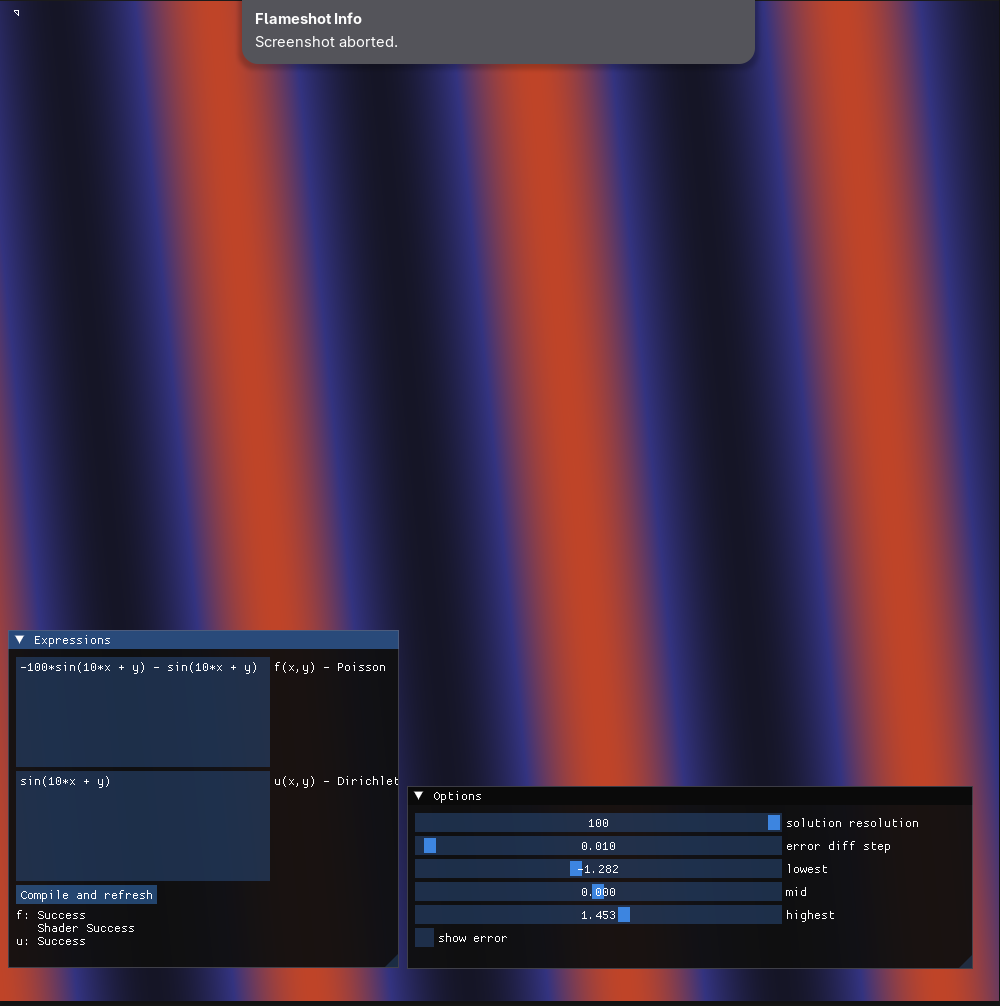
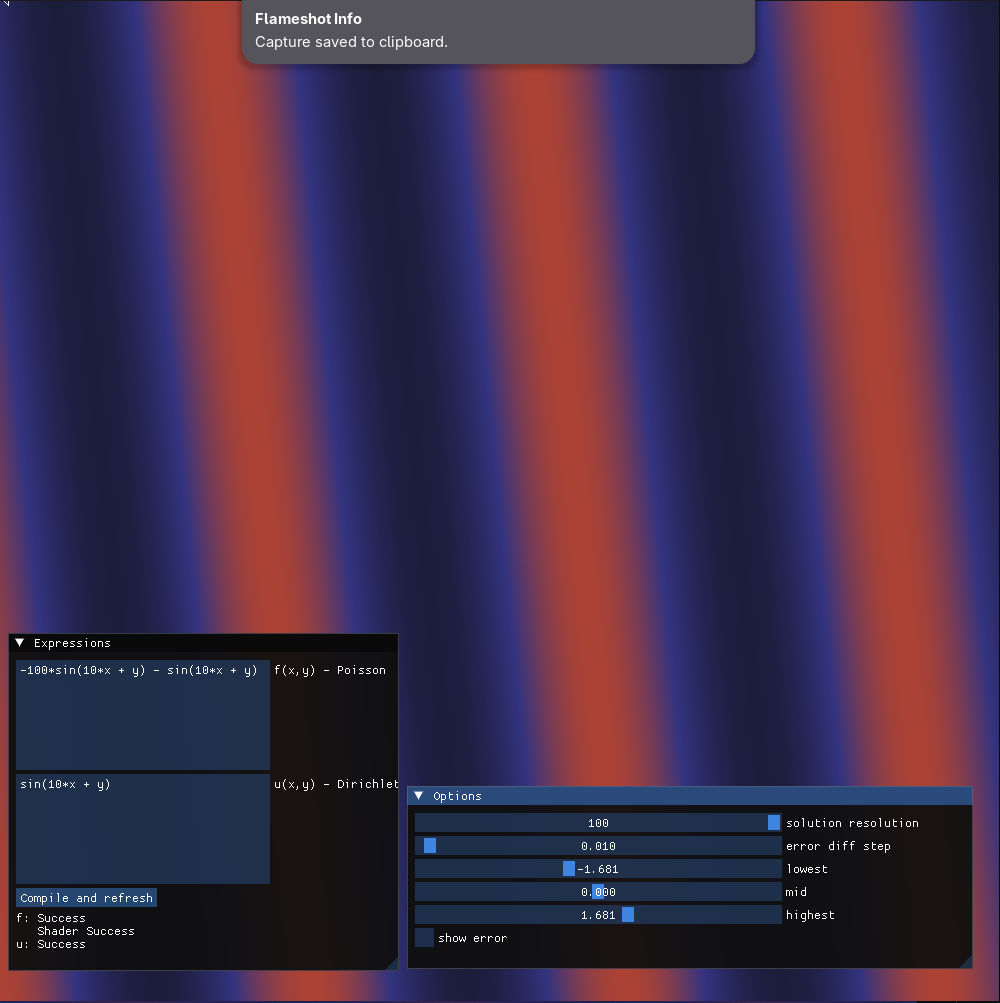
Fix readme

diff --git a/README.md b/README.md
@@ -1,8 +1,10 @@
 ### Poisson-Laplace equation solver using the FEM
 
-The solver uses first-order triangular elements
-![Example 1](/images/sin_img.png)
+The solver uses first-order triangular elements.
 
-It also can visualize the laplacian deviation
-![Example 2](/images/sin_img_error_low.png)
-![Example 3](/images/sin_img_error_high.png)
+<img src="/images/sin_img.png" alt="Example 1" width="500" height="500">
+
+It can also visualize the Laplacian deviation.
+
+<img src="/images/sin_img_error_low.png" alt="Example 2" width="500" height="500">
+<img src="/images/sin_img_error_high.png" alt="Example 3" width="500" height="500">